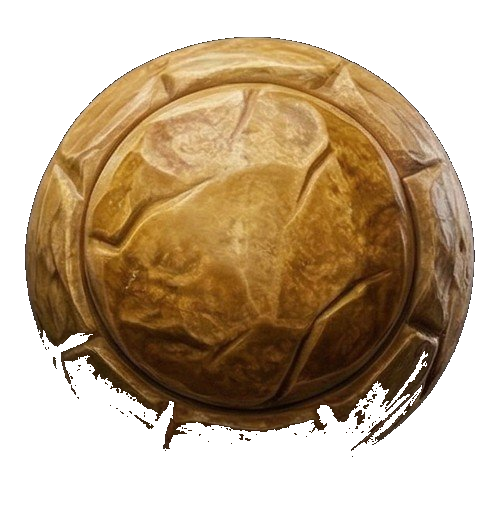
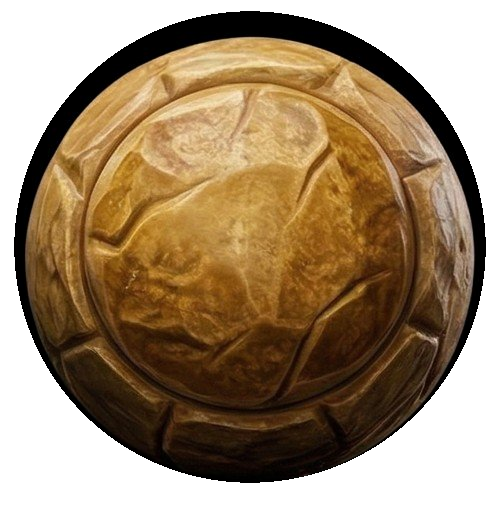
fix: ball bg circular mask preserves shadows + all numbers white

Changed region(s): [[0.0307, 0.0, 1.0, 0.9687]]

diff --git a/app/index.html b/app/index.html
@@ -250,7 +250,9 @@ body::before{content:'';position:fixed;inset:0;z-index:0;background:#000}
 .sm{width:36px;height:36px;font-size:.8rem}
 /* number text on top of ball image */
 .ball span{position:relative;z-index:2;font-family:'Clash',sans-serif;
-  font-weight:700;text-shadow:0 1px 4px rgba(0,0,0,.9),0 0 8px rgba(0,0,0,.8)}
+  font-weight:700;color:#FFFFFF;
+  text-shadow:0 1px 4px rgba(0,0,0,.95),0 0 10px rgba(0,0,0,.9),
+    1px 1px 0 rgba(0,0,0,.8),-1px -1px 0 rgba(0,0,0,.8)}
 /* ball colors — map to images */
 .c1{background-image:url(assets/ball-blue.png)}
 .c2{background-image:url(assets/ball-gold.png)}
@@ -258,12 +260,6 @@ body::before{content:'';position:fixed;inset:0;z-index:0;background:#000}
 .c4{background-image:url(assets/ball-green.png)}
 .c5{background-image:url(assets/ball-red.png)}
 .c6{background-image:url(assets/ball-blue.png)}
-/* number colors per ball */
-.c1 span,.c6 span{color:#E8F8FF;text-shadow:0 0 8px rgba(0,0,0,.9),0 1px 3px rgba(0,0,80,.8)}
-.c2 span{color:#3D1A00;text-shadow:0 1px 2px rgba(0,0,0,.6)}
-.c3 span{color:#F0E0FF;text-shadow:0 0 8px rgba(0,0,0,.9)}
-.c4 span{color:#E8FFE8;text-shadow:0 0 8px rgba(0,0,0,.9)}
-.c5 span{color:#FFE8E8;text-shadow:0 0 8px rgba(0,0,0,.9)}
 .bnew{animation:bdrop .45s cubic-bezier(.34,1.56,.64,1) both!important;
   filter:drop-shadow(0 0 14px rgba(255,220,60,.8))}
 @keyframes bdrop{from{opacity:0;transform:scale(.2) translateY(-30px) rotate(-20deg)}

diff --git a/miniapp/index.html b/miniapp/index.html
@@ -250,7 +250,9 @@ body::before{content:'';position:fixed;inset:0;z-index:0;background:#000}
 .sm{width:36px;height:36px;font-size:.8rem}
 /* number text on top of ball image */
 .ball span{position:relative;z-index:2;font-family:'Clash',sans-serif;
-  font-weight:700;text-shadow:0 1px 4px rgba(0,0,0,.9),0 0 8px rgba(0,0,0,.8)}
+  font-weight:700;color:#FFFFFF;
+  text-shadow:0 1px 4px rgba(0,0,0,.95),0 0 10px rgba(0,0,0,.9),
+    1px 1px 0 rgba(0,0,0,.8),-1px -1px 0 rgba(0,0,0,.8)}
 /* ball colors — map to images */
 .c1{background-image:url(assets/ball-blue.png)}
 .c2{background-image:url(assets/ball-gold.png)}
@@ -258,12 +260,6 @@ body::before{content:'';position:fixed;inset:0;z-index:0;background:#000}
 .c4{background-image:url(assets/ball-green.png)}
 .c5{background-image:url(assets/ball-red.png)}
 .c6{background-image:url(assets/ball-blue.png)}
-/* number colors per ball */
-.c1 span,.c6 span{color:#E8F8FF;text-shadow:0 0 8px rgba(0,0,0,.9),0 1px 3px rgba(0,0,80,.8)}
-.c2 span{color:#3D1A00;text-shadow:0 1px 2px rgba(0,0,0,.6)}
-.c3 span{color:#F0E0FF;text-shadow:0 0 8px rgba(0,0,0,.9)}
-.c4 span{color:#E8FFE8;text-shadow:0 0 8px rgba(0,0,0,.9)}
-.c5 span{color:#FFE8E8;text-shadow:0 0 8px rgba(0,0,0,.9)}
 .bnew{animation:bdrop .45s cubic-bezier(.34,1.56,.64,1) both!important;
   filter:drop-shadow(0 0 14px rgba(255,220,60,.8))}
 @keyframes bdrop{from{opacity:0;transform:scale(.2) translateY(-30px) rotate(-20deg)}
